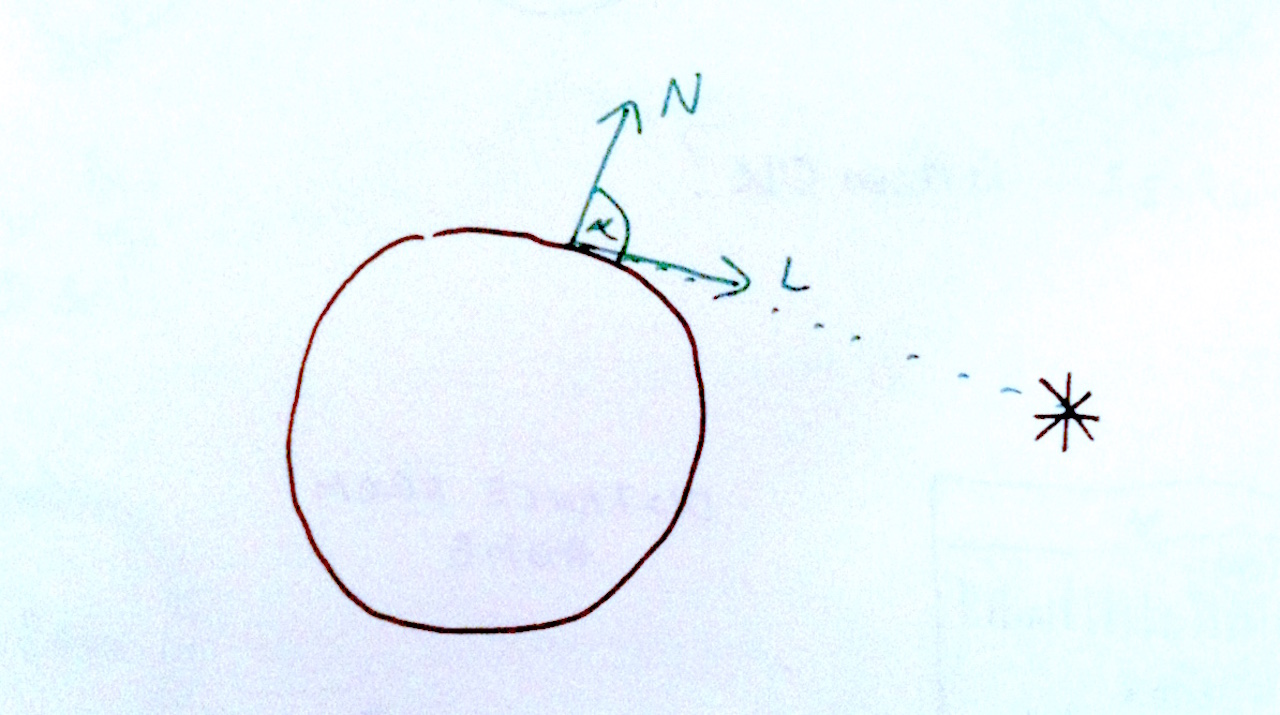
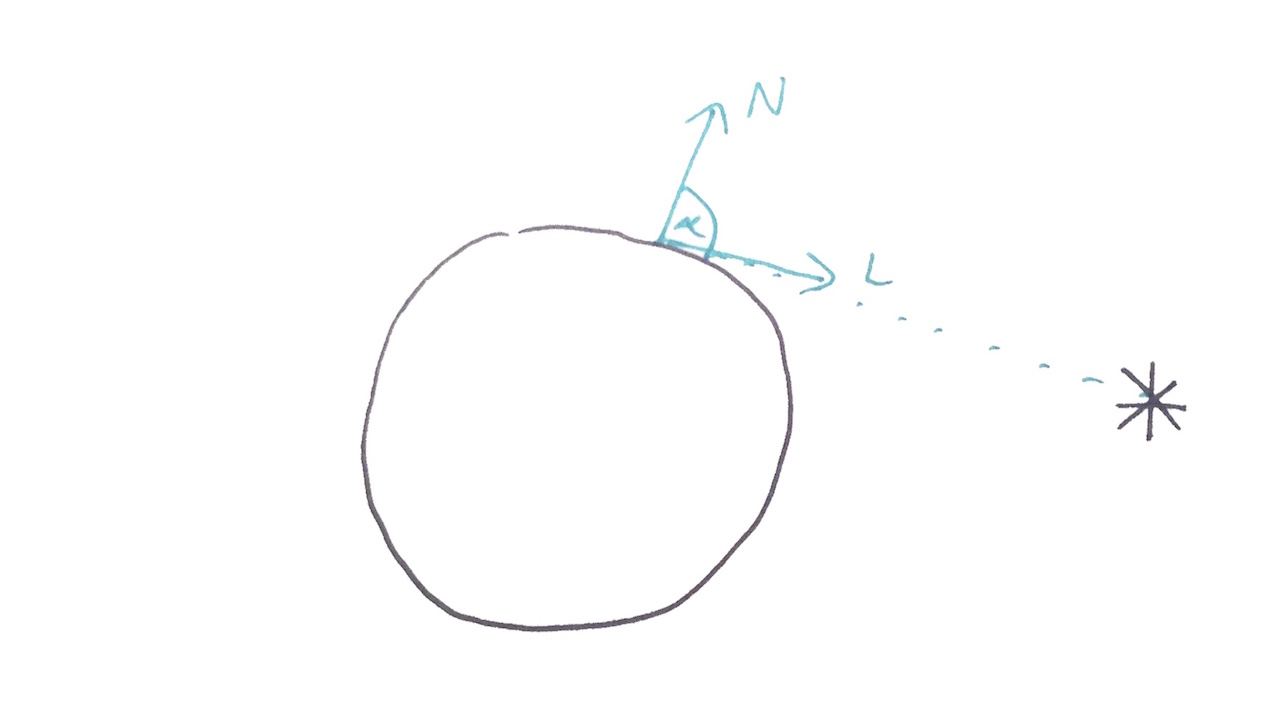
200-setup-and-gamma added click to see the live version labels and new drawings

diff --git a/200-setup-and-gamma.md b/200-setup-and-gamma.md
@@ -41,9 +41,12 @@ To make sure everything works run the following command while in `pragmatic-pbr`
 beefy 201-init/main.js --open --live -- -i plask -g glslify-promise/transform
 ```
 
-This should open your browser at [http://127.0.0.1:9966](http://127.0.0.1:9966) and display a rectangle that changes colors (click to see live version)
+This should open your browser at [http://127.0.0.1:9966](http://127.0.0.1:9966) and display a rectangle that changes colors
 
 [![](img/201.jpg)](http://marcinignac.com/blog/pragmatic-pbr-setup-and-gamma/201-init/)
+
+*(click to see the live version)*
+
 
 What is beefy? [Beefy](https://www.npmjs.com/package/beefy) is a local server that boundles our code and required node modules into one JS file using [browserify](http://browserify.org) that can be loaded by the browser. It also watches for changes (when run with `--live` flag) and will reload the page when you edit and save the JS file. Running a local server also solves a number of issues with AJAX requests and local file access policies in the browsers. In the `-- -i plask` part we have `browserify` flags where we ignore `plask` module and run our source code through `glslify` transform that will inline all the GLSL shaders. [Plask](http://plask.org) is a multimedia programming environment for OSX built on top of NodeJS and implementing WebGL v1.0+ spec. You can use it to run WebGL apps on OSX without the browser. I use it for development but we won't be using it in this tutorial.
 
@@ -163,15 +166,19 @@ Window.create({
 
 [![](img/202.jpg)](http://marcinignac.com/blog/pragmatic-pbr-setup-and-gamma/202-lambert-diffuse/)
 
+*(click to see the live version)*
+
 Let's start with a simple scene containing one sphere and a single point light. We will make a number of assumptions: the surface of the sphere is white, the light color is white and there is no light attenuation (light loosing intensity with distance) and the light's position is static (no animation) and located at `[10,10,10]` (top right, in front of the sphere).
 
 ### Diffuse Lighting
 
 In order to calculate the appearance of a surface under these lighting conditions we need a lighting (shading) model. One of the simplest and most commonly used shading models is [Lambertian reflectance](https://en.wikipedia.org/wiki/Lambertian_reflectance) also known as *Lambert diffuse* or just *Lambert*. It models a [diffuse reflection](https://en.wikipedia.org/wiki/Diffuse_reflection) (light reflecting into multiple directions -> blurry reflection) for matte / rough objects. It doesn't handle [specular reflection](https://en.wikipedia.org/wiki/Specular_reflection) (light reflecting into single direction causing -> sharp, mirror / highlight like) but we don't need that yet. Lambert diffuse obeys [Lambert's cosine law](https://en.wikipedia.org/wiki/Lambert%27s_cosine_law) stating that light intensity observed on the surface is proportional to the cosine of the angle between direction towards the light and [the surface normal](https://en.wikipedia.org/wiki/Normal_(geometry)). 
 
+![](img/202_lambert_diffuse.jpg)
+
 If both direction towards the light and normal point in the same direction the angle will be `0` and `cos(0) = 1` therefore intensity will be the strongest. At `45' deg` we have are losing 30% of the intensity `cos(PI/4) = 0.707`, dropping to zero at `90' deg` as `cos(PI/2) = 0`.
 
-![](img/202_lambert_diffuse.jpg)
+![](img/202_angles.jpg)
 
 We can measure the angle between two vectors using a [dot products](https://en.wikipedia.org/wiki/Dot_product) `N·L`
 
@@ -490,6 +497,7 @@ More reading:
 
 [![](img/203.jpg)](http://marcinignac.com/blog/pragmatic-pbr-setup-and-gamma/203-gamma/)
 
+*(click to see the live version)*
 
 *203-gamma/Material.frag*:
 
@@ -569,6 +577,8 @@ I made a separate example with two lights for you to play with and see the resul
 
 [![](img/204.jpg)](http://marcinignac.com/blog/pragmatic-pbr-setup-and-gamma/204-gamma-color/)
 
+*(click to see the live version)*
+
 To run the example:
 
 ```
@@ -582,6 +592,8 @@ Try turning on/off the conversion to linear and gamma space to see the differenc
 ## 205-gamma-texture
 
 [![](img/205.jpg)](http://marcinignac.com/blog/pragmatic-pbr-setup-and-gamma/205-gamma-texture/)
+
+*(click to see the live version)*
 
 Remember when I was talking about sRGB curves and textures? When using texture colors we need to bring them to the linear space as well:
 
@@ -704,6 +716,8 @@ Additionally
 If you don't have EXT_sRGB enabled or supported you will get brighter image than expected due to
 
 [![](img/206_incorrect.jpg)](http://marcinignac.com/blog/pragmatic-pbr-setup-and-gamma/206-gamma-ext-srgb/)
+
+*(click to see the live version)*
 
 Uff, that's the end of Part 2. Next time we will talk about hight dynamic range (HDR) which is intro to Image Based Lighting ("the number 2" trick in PBR).
 
